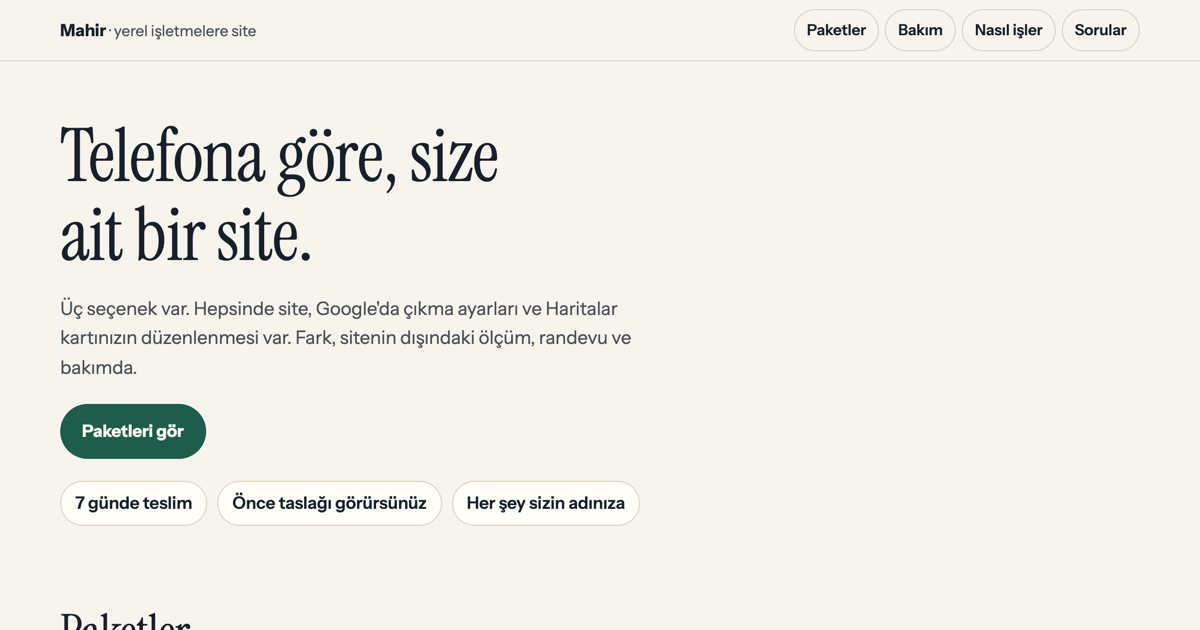
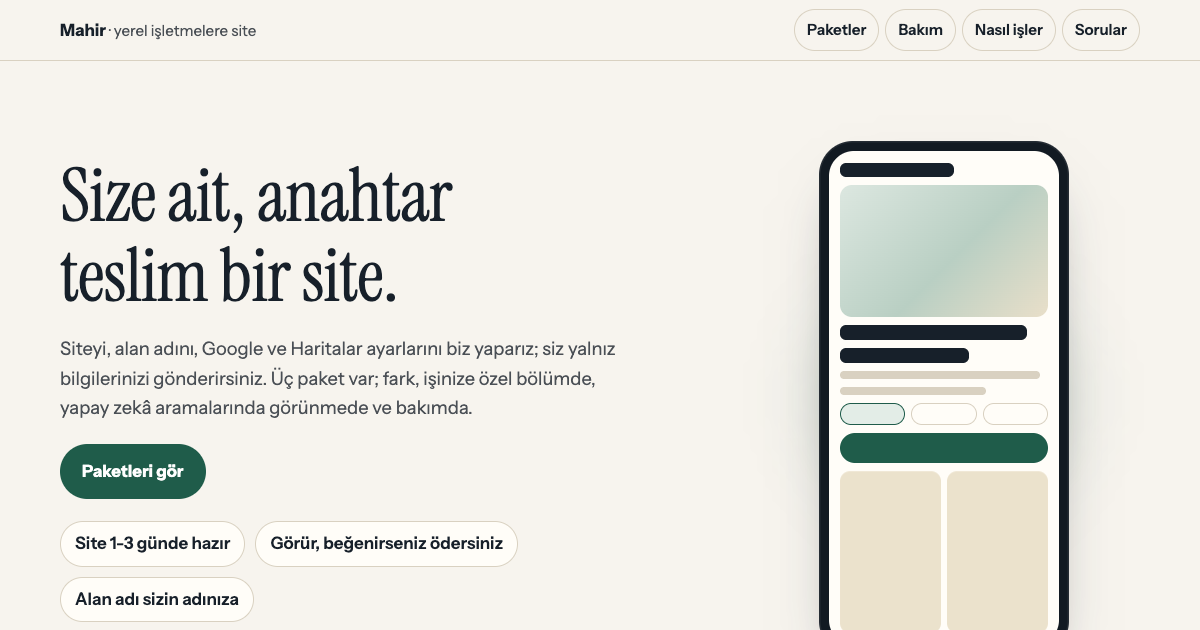
örnek siteler 2026-11-27-1344

diff --git a/paketler/index.html b/paketler/index.html
@@ -6,7 +6,7 @@
 <title>Site paketleri · Mahir</title>
 <meta name="description" content="Yerel işletmeler için telefona göre site: üç paket, ne aldığınız madde madde, bakım ve ödeme nasıl işler.">
 <meta name="robots" content="noindex">
-<meta property="og:title" content="Site paketleri: 15.000 / 20.000 / 25.000 TL">
+<meta property="og:title" content="Site paketleri: 13.500 / 20.000 / 30.000 TL">
 <meta property="og:description" content="Ne aldığınız madde madde. Siteyi bitmiş hâliyle görün, beğenirseniz ödeyin.">
 <meta property="og:image" content="https://mahiremre2668-afk.github.io/ornek-siteler/paketler/og.png">
 <meta property="og:type" content="website">
@@ -107,6 +107,12 @@ section{padding:36px 0;scroll-margin-top:72px}
 .sss details[open] summary::after{content:"–"}
 .sss details[open]{background:var(--yesil-acik);border-left:4px solid var(--yesil);padding-left:14px}
 .sss p{margin:0 0 16px;color:var(--ikincil);max-width:68ch}
+.tablo-kap{overflow-x:auto}
+.dtablo{width:100%;border-collapse:collapse;background:var(--kart);border:1.5px solid var(--cizgi);border-radius:var(--r);font-size:1.05rem}
+.dtablo th,.dtablo td{text-align:left;padding:12px 14px;border-bottom:1px solid var(--cizgi);vertical-align:top}
+.dtablo thead th{background:var(--kum);font-weight:700}
+.dtablo tbody th{font-weight:600}
+@media (max-width:520px){.dtablo thead{display:none}.dtablo tr{display:block;padding:10px 0;border-bottom:1px solid var(--cizgi)}.dtablo tbody th,.dtablo td{display:block;border:0;padding:4px 14px}.dtablo td::before{font-weight:700;color:var(--ikincil)}.dtablo td:nth-of-type(1)::before{content:"İlk 30 gün: "}.dtablo td:nth-of-type(2)::before{content:"Bakımla: "}.dtablo td:nth-of-type(3)::before{content:"Bakımsız: "}.dtablo td[colspan]::before{content:""}}
 .ornekler{display:grid;grid-template-columns:repeat(4,minmax(0,1fr));gap:12px}
 .ornekler a{display:block;background:var(--kart);border:1.5px solid var(--cizgi);border-radius:var(--r);padding:16px;text-decoration:none;color:var(--murekkep);font-weight:600}
 .ornekler a span{display:block;color:var(--ikincil);font-weight:400;font-size:.95rem}
@@ -141,6 +147,7 @@ footer{padding:36px 0 60px;color:var(--ikincil);border-top:1px solid var(--cizgi
 </style>
 </head>
 <body>
+
 <header class="ust"><div class="kap">
   <div class="ad">Mahir <small>· yerel işletmelere site</small></div>
   <nav class="git" aria-label="Bölümler"><a href="#paketler">Paketler</a><a href="#bakim">Bakım</a><a href="#nasil">Nasıl işler</a><a href="#sorular">Sorular</a></nav>
@@ -149,8 +156,8 @@ footer{padding:36px 0 60px;color:var(--ikincil);border-top:1px solid var(--cizgi
 
 <main>
 <div class="kap giris"><div class="giris-metin" data-yukle>
-  <h1>Telefona göre, size ait bir site.</h1>
-  <p>Üç seçenek var. Hepsinde site, Google'da çıkma ayarları ve Haritalar kartınızın düzenlenmesi var. Fark, sitenin dışındaki ölçüm, randevu ve bakımda.</p>
+  <h1>Size ait, anahtar teslim bir site.</h1>
+  <p>Siteyi, alan adını, Google ve Haritalar ayarlarını biz yaparız; siz yalnız bilgilerinizi gönderirsiniz. Üç paket var; fark, işinize özel bölümde, yapay zekâ aramalarında görünmede ve bakımda.</p>
   <a class="ana" href="#paketler">Paketleri gör</a>
   <ul class="ozet"><li>Site 1-3 günde hazır</li><li>Görür, beğenirseniz ödersiniz</li><li>Alan adı sizin adınıza</li></ul>
 </div>
@@ -170,73 +177,81 @@ footer{padding:36px 0 60px;color:var(--ikincil);border-top:1px solid var(--cizgi
 </div>
 
 <section id="paketler"><div class="kap">
-  <div class="bas"><h2>Paketler</h2><p>Fiyatlar tek seferlik. Herkese aynı.</p></div>
+  <div class="bas"><h2>Paketler</h2><p>Tek seferlik fiyat. Herkese aynı. Her site telefonda, tablette ve bilgisayarda düzgün görünür.</p></div>
   <div class="paketler">
     <article class="paket" data-glow>
       <div class="no">Paket 1</div>
-      <h3>Site</h3>
-      <div class="fiyat">15.000 TL <small>tek sefer</small></div>
-      <p class="kime">Yalnız site isteyenlere.</p>
+      <h3>Başlangıç</h3>
+      <div class="fiyat">13.500 TL <small>tek sefer</small></div>
+      <p class="kime">"İnternette düzgün bir yerim olsun" diyenlere.</p>
       <ul data-belir="sira">
-        <li>Telefona göre site: adınız, hizmetleriniz, fiyatlarınız, fotoğraflarınız, semtleriniz, saatleriniz</li>
-        <li>Örnekte gördüğünüz özel bölüm (fiyat fişi, randevu defteri, önce/sonra sürgüsü)</li>
-        <li>Müşterinin seçtikleriyle WhatsApp'ınıza hazır gelen mesaj</li>
-        <li>Yayına alma, kendi alan adınıza bağlama, kilit simgesi (güvenli bağlantı)</li>
-        <li>Google'da çıkma ayarları (SEO)</li>
-        <li>Yapay zekâ aramalarında doğru anlatılma: ChatGPT, Gemini (GEO)</li>
-        <li>Google'a sitenizin tanıtılması (Search Console)</li>
-        <li>Haritalar kartınızın düzenlenmesi: kategori, saat, açıklama, site bağlantısı</li>
-        <li>Form için kişisel veri bilgilendirme metni</li>
-        <li>2 düzeltme hakkı</li>
+        <li>Size özel tasarlanmış site: adınız, hizmetleriniz, fiyatlarınız, fotoğraflarınız, saatleriniz</li>
+        <li>Anahtar teslim: alan adı (ilk yıl dâhil), yayında tutma, kilit simgesi. Hepsini biz yaparız, ayrı ücret yok</li>
+        <li>Google'da bulunma kurulumu (SEO): "semtiniz + işiniz" aranınca bulunabilmeniz için ayarlar</li>
+        <li>Müşteri size nereden yazıyorsa o düğme: WhatsApp, telefon, Instagram ya da form</li>
+        <li>Haritalar kartınıza site bağlantısı</li>
+        <li>Yayından sonra 30 gün ücretsiz düzeltme</li>
       </ul>
     </article>
     <article class="paket onerilen" data-glow>
       <span class="etiket">Önerilen</span>
       <div class="no">Paket 2</div>
-      <h3>Site + ölçüm</h3>
+      <h3>Önerilen</h3>
       <div class="fiyat">20.000 TL <small>tek sefer</small></div>
-      <p class="kime">Siteden kaç müşteri geldiğini görmek isteyenlere.</p>
+      <p class="kime">Müşterisini internetten almak isteyenlere.</p>
       <ul data-belir="sira">
-        <li class="ust">Paket 1'deki her şey, artı:</li>
+        <li class="ust">Başlangıç'taki her şey, artı:</li>
+        <li>Yapay zekâ aramalarında görünme (GEO): ChatGPT ya da Gemini'ye "yakınımda iyi bir …" diye sorulunca adınızın doğru bilgiyle geçebilmesi için hazırlık</li>
+        <li>İşinize özel bölüm: halıcıda metrekare hesabı, kuaförde randevu yazışması, tadilatta keşif soruları. Müşterinin isteği size hazır gelir</li>
         <li>Haritalar kartının tam düzenlenmesi: hizmet listesi, 10 fotoğraf, ilk gönderi</li>
-        <li>Ziyaretçi sayacı: kaç kişi girdi, kaçı WhatsApp'a bastı (Google Analytics)</li>
-        <li>Meta pikseli: ileride Instagram/Facebook reklamı verirseniz, sitenize gelenlere yeniden gösterebilirsiniz</li>
-        <li>Çerez izin bandı (izin vermeyen ziyaretçide ölçüm çalışmaz)</li>
-        <li>30. gün raporu: Google'da kaç kez çıktınız, kaç kişi girdi, kaç kişi yazdı</li>
-        <li>İlk ay bakım ücretsiz</li>
+        <li>İlk ay bakım dâhil</li>
       </ul>
     </article>
     <article class="paket" data-glow>
       <div class="no">Paket 3</div>
-      <h3>Tam paket</h3>
-      <div class="fiyat">25.000 TL <small>tek sefer</small></div>
-      <p class="kime">Randevuyla çalışan ve işini göstermek isteyenlere.</p>
+      <h3>Tam</h3>
+      <div class="fiyat">30.000 TL <small>tek sefer</small></div>
+      <p class="kime">Randevuyla çalışan, işini göstermek ve zaman kazanmak isteyenlere.</p>
       <ul data-belir="sira">
-        <li class="ust">Paket 2'deki her şey, artı:</li>
-        <li>Online randevu takvimi: müşteri boş saatleri görür, 8 haftaya kadar ileri randevu alır</li>
-        <li>Randevu telefonunuzdaki takvime düşer, size bildirim, müşteriye onay e-postası gider</li>
-        <li>İş galerisi sayfası: 6-10 işinizin önce/sonra fotoğrafı, ayrı sayfa</li>
+        <li class="ust">Önerilen'deki her şey, artı:</li>
+        <li>Randevu takvimi: müşteri boş saatinizi görür, kendisi seçer, telefonunuzdaki takvime düşer (aylık ücret yok)</li>
+        <li>İş fotoğrafları sayfası: önce/sonra fotoğraflarınız ayrı bir sayfada</li>
+        <li>Ziyaretçi sayacı ve reklam pikseli kurulumu (takibini siz yaparsınız)</li>
         <li>İlk 3 ay bakım dâhil</li>
-        <li>3 düzeltme hakkı</li>
       </ul>
     </article>
   </div>
-  <p class="not">Randevu takvimi için size aylık ücret çıkmaz (Google Takvim'in ücretsiz randevu sayfası kullanılır). Halı yıkamada "adresten alım günü", tadilatta "keşif günü" olarak kurulur.</p>
+  <p class="not">Ziyaretçi sayacı + reklam pikseli diğer paketlere ek olarak 750 TL. Kurarız, nasıl bakılacağını bir sayfada anlatırız; takibini siz yaparsınız, rapor vermeyiz. Google'da ya da yapay zekâda ilk sıra garantisi verilmez; garanti veren yanıltıyordur.</p>
+</div></section>
+
+<section id="degisiklik"><div class="kap">
+  <div class="bas"><h2>Değişiklik ne zaman ücretsiz?</h2><p>Zam geldi, saat değişti, yeni eleman aldınız: hangisi nereye girer.</p></div>
+  <div class="tablo-kap"><table class="dtablo">
+    <thead><tr><th>Değişiklik</th><th>İlk 30 gün</th><th>Bakımla</th><th>Bakımsız</th></tr></thead>
+    <tbody>
+      <tr><th>Bizden kaynaklı hata</th><td>ücretsiz</td><td>ücretsiz</td><td><b>her zaman ücretsiz</b></td></tr>
+      <tr><th>Fiyat listesi (zam)</th><td>ücretsiz</td><td><b>ayda 1 toplu, sayılmaz</b></td><td>500 TL</td></tr>
+      <tr><th>Saat, çalışan, yeni hizmet satırı</th><td>ücretsiz</td><td>küçük değişiklik</td><td>500 TL</td></tr>
+      <tr><th>Beğenmediğiniz bir yer</th><td>2 kez ücretsiz</td><td>küçük değişiklik</td><td>500 TL</td></tr>
+      <tr><th>Yeni bölüm, yeniden tasarım</th><td colspan="3">ayrı ücret, önceden söylenir</td></tr>
+    </tbody>
+  </table></div>
 </div></section>
 
 <section id="bakim"><div class="kap">
   <div class="bakim">
     <div>
       <h2>Bakım</h2>
-      <div class="fiyat">1.000 TL'den <small>aylık, isteğe bağlı</small></div>
-      <p>Site bir kez kurulur ve bakım almasanız da çalışır. Google'da üstte kalmak için kartınızın ve sitenizin canlı tutulması gerekir; bakım bunun içindir. Yapılacak işe göre ücret artabilir; önceden söylenir.</p>
+      <div class="fiyat">1.000 TL <small>aylık, isteğe bağlı</small></div>
+      <p>Site bakım almasanız da açık kalır. Bakım; zamları, saatleri, yeni hizmetleri güncel tutmak ve Google'da canlı görünmek içindir.</p>
+      <p><b style="color:#fff">Bakım dışında (önceden söylenir):</b> yeni bölüm 2.000-3.500 TL · yeniden tasarım paketinizin yarısı · yeni özellik (ikinci dil, form, ödeme bağlantısı) ayrı fiyat.</p>
     </div>
     <ol>
-      <li><b>Her gün kontrol:</b> site açık mı, kilit simgesi geçerli mi, alan adının süresi doluyor mu</li>
-      <li><b>Ayda bir:</b> Google'ın gördüğü hatalar bulunur, düzeltilir</li>
-      <li><b>Ayda 1-2:</b> Haritalar kartına gönderi ya da yeni fotoğraf (fotoğrafı siz gönderirsiniz)</li>
-      <li><b>Ayda 3'e kadar:</b> fiyat, saat, kampanya, fotoğraf değişikliği</li>
-      <li><b>Ayda bir rapor:</b> WhatsApp'tan kısa özet; Google'da kaç kez çıktınız, kaç kişi girdi, neler güncellendi</li>
+      <li><b>Güvenlik ve kilit:</b> site her gün kendiliğinden kontrol edilir, kilit simgesi süresi dolmadan yenilenir, yedek tutulur</li>
+      <li><b>Fiyat listesi:</b> ayda 1 toplu güncelleme (zam); küçük değişikliklerden sayılmaz</li>
+      <li><b>Ayda 3 küçük değişiklik:</b> saat, çalışan, yeni hizmet, fotoğraf, metin, kampanya bandı</li>
+      <li><b>Ayda 1-2 Haritalar gönderisi:</b> fotoğrafı siz gönderirsiniz, yazısını biz yazarız</li>
+      <li><b>Alan adı yenilemesinin takibi</b> ve ayda bir "bakımınız yapıldı" mesajı</li>
     </ol>
   </div>
 </div></section>
@@ -255,7 +270,7 @@ footer{padding:36px 0 60px;color:var(--ikincil);border-top:1px solid var(--cizgi
 <section><div class="kap">
   <div class="bas"><h2>Alan adı sizin adınıza</h2></div>
   <div class="sizin">
-    <div><b>Alan adı</b>Kayıt sahibi sizsiniz. Kendiniz alabilirsiniz; bilmiyorsanız biz alır, sizin adınıza kaydederiz. Yılda yaklaşık 500-1.000 TL, fiyatın içinde değil. Yenileme otomatik açıktır; ayrılırsanız taşıma kodu size verilir.</div>
+    <div><b>Alan adı</b>Kayıt sahibi sizsiniz. Biz alır, sizin adınıza kaydederiz; ilk yıl fiyatın içinde. Sonraki yıllarda yenileme yaklaşık 500-1.000 TL. Yenileme otomatik açıktır; ayrılırsanız taşıma kodu size verilir.</div>
     <div><b>Yayın</b>Siteniz bizim hesabımızda (Cloudflare, ücretsiz) yayınlanır. Sizden hesap, şifre ya da yetki istenmez.</div>
     <div><b>Ayrılırsanız</b>Bakımı bırakır ya da başka birine geçerseniz, site dosyaları 7 gün içinde size teslim edilir. Teslime kadar siteniz açık kalır.</div>
   </div>
@@ -265,7 +280,7 @@ footer{padding:36px 0 60px;color:var(--ikincil);border-top:1px solid var(--cizgi
   <div class="bas"><h2>Sorular</h2></div>
   <details><summary>Google'da çıkma ayarı (SEO) her ay mı yapılıyor?</summary><p>Kurulum bir kez, site yapılırken yapılır ve her pakette var. Her ay yapılan iş, Haritalar kartınızın ve sitenizin güncel tutulması; bu bakımın içinde.</p></details>
   <details><summary>Reklam vermiyorum. Meta pikseli bana ne kazandırır?</summary><p>Reklam vermiyorsanız bugün bir faydası yok. İleride Instagram ya da Facebook reklamı düşünüyorsanız, şimdiden kurulursa sitenize gelenlerin listesi birikir. Düşünmüyorsanız Paket 1 yeterli.</p></details>
-  <details><summary>Bakım almazsam site kapanır mı?</summary><p>Hayır. Site çalışmaya devam eder. Alan adının yıllık yenileme ücreti size aittir; teslimde yenileme tarihini yazıp veriyorum.</p></details>
+  <details><summary>Bakım almazsam site kapanır mı?</summary><p>Hayır. Site çalışmaya devam eder. Alan adının ilk yılı fiyatın içinde; sonraki yıllarda yenileme ücreti size aittir. Teslimde yenileme tarihini yazıp veriyorum.</p></details>
   <details><summary>Düzeltme ne demek?</summary><p>Yazı, fiyat, fotoğraf, renk tonu gibi değişiklikler. Ödemeden önceki 1-2 küçük düzenleme de bu türdendir. Yeni bölüm ya da baştan başka bir tasarım düzeltme sayılmaz, ayrıca konuşulur.</p></details>
   <details><summary>Süre ne zaman başlar?</summary><p>Bilgiler ve fotoğraflar geldiği gün başlar. Site 1-2 günde, en geç 3. günde biter. Ödemeden sonra 1-2 günde yayında.</p></details>
   <details><summary>Fatura kesiyor musunuz?</summary><p>Bu çalışmayı şu an bireysel olarak yürütüyorum, bu yüzden fatura kesemiyorum. Ödeme IBAN'a havaleyle, site bitip siz beğendikten sonra yapılır. Beğenmezseniz hiçbir şey ödemezsiniz.</p></details>
